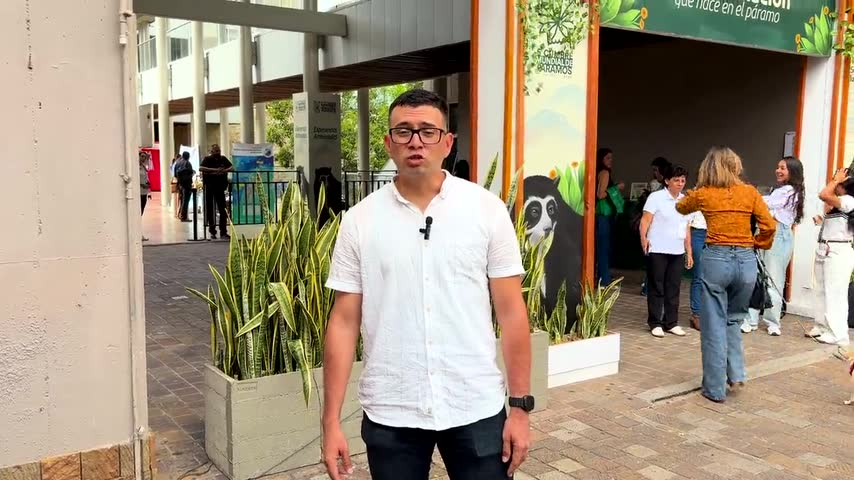
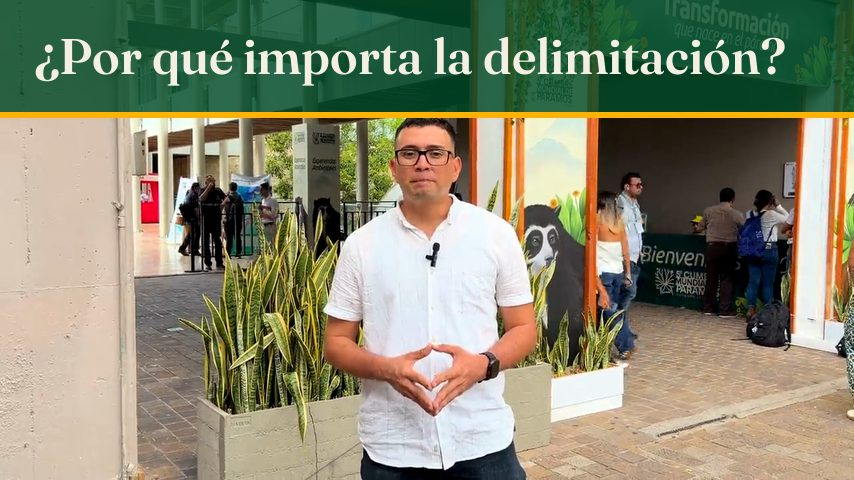
Portadas con título, explicación al acertar y pantalla de bienvenida
- Portada de cada video: fotograma con buena expresión (en una pausa o al terminar de hablar)
  y el título en Fraunces sobre una franja verde semitransparente.
- Al acertar, debajo de la pregunta aparece en verde la explicación de la respuesta.
- Pantalla de bienvenida antes del formulario con el título, la duración y el botón Empezar.

diff --git a/index.html b/index.html
@@ -204,6 +204,14 @@
     margin-bottom: 6px;
   }
 
+  .welcome-card .card-title{ font-size: 1.45rem; line-height: 1.25; margin-bottom: 12px; }
+  .welcome-datos{
+    margin: 0 0 22px;
+    font-size: 1.05rem;
+    line-height: 1.6;
+    color: var(--ink);
+  }
+
   .card-subtitle{
     color: var(--ink-soft);
     font-size: 1rem;
@@ -754,6 +762,7 @@
     margin: 16px 0 4px;
     font-size: 1rem;
     font-weight: 500;
+    line-height: 1.5;
   }
 
   .feedback.ok{ color: var(--correct); }
@@ -962,8 +971,15 @@
       </div>
     </section>
 
+    <!-- Bienvenida -->
+    <section class="card card-first welcome-card" id="welcomeCard">
+      <h2 class="card-title">Importancia de la incidencia en el Páramo de Santurbán</h2>
+      <p class="welcome-datos">Curso de unos 5 minutos · 7 videos cortos · 5 preguntas · Certificado al final</p>
+      <button class="next-btn" id="welcomeBtn">Empezar →</button>
+    </section>
+
     <!-- 1. Registro -->
-    <section class="card card-first" id="registerCard">
+    <section class="card card-first" id="registerCard" hidden>
       <h2 class="card-title">Antes de comenzar</h2>
       <p class="card-subtitle">Regístrate para participar en la capacitación. Tus datos se usarán para certificar tu participación.</p>
 
@@ -1155,6 +1171,7 @@
   const questions = [
     {
       text: "¿Cómo funciona el suelo del Páramo de Santurbán?",
+      explicacion: "Correcto. El suelo del páramo absorbe el agua de la lluvia y la neblina, y la va soltando poco a poco, incluso en temporadas secas.",
       options: [
         { text: "Como una roca que no deja pasar el agua", correct: false },
         { text: "Como una esponja que absorbe el agua y la suelta poco a poco", correct: true },
@@ -1164,6 +1181,7 @@
     },
     {
       text: "Según la ley colombiana, ¿qué actividades están prohibidas en los páramos?",
+      explicacion: "Correcto. En Colombia la minería y la ganadería están prohibidas en los páramos, aunque en municipios como Vetas y Suratá aún se realizan.",
       options: [
         { text: "Sembrar árboles nativos", correct: false },
         { text: "Hacer turismo ecológico", correct: false },
@@ -1173,6 +1191,7 @@
     },
     {
       text: "¿A qué ríos alimentan las quebradas de Bucaramanga?",
+      explicacion: "Correcto. Las quebradas de Bucaramanga alimentan el río de Oro y el Suratá, que juntos forman el río Lebrija.",
       options: [
         { text: "Al río de Oro y al Suratá", correct: true },
         { text: "Al Magdalena y al Cauca", correct: false },
@@ -1182,6 +1201,7 @@
     },
     {
       text: "Además del ambiente, ¿a quiénes beneficia proteger las quebradas?",
+      explicacion: "Correcto. Proteger las quebradas también beneficia a las familias que viven de la pesca aguas abajo.",
       options: [
         { text: "Solo a los turistas", correct: false },
         { text: "A las empresas de construcción", correct: false },
@@ -1191,6 +1211,7 @@
     },
     {
       text: "¿Por qué importa tanto la delimitación del páramo?",
+      explicacion: "Correcto. Lo que queda dentro de la delimitación tiene reglas de protección estrictas; lo que queda afuera puede quedar expuesto.",
       options: [
         { text: "Porque define dónde se puede construir más", correct: false },
         { text: "Porque lo que queda adentro tiene reglas de protección estrictas", correct: true },
@@ -1577,6 +1598,7 @@
   }
 
   // Screens
+  const welcomeCard = document.getElementById("welcomeCard");
   const resumeCard = document.getElementById("resumeCard");
   const registerCard = document.getElementById("registerCard");
   const introCard = document.getElementById("introCard");
@@ -1615,6 +1637,7 @@
 
   function showScreen(name){
     pantallaActual = name;
+    welcomeCard.hidden = name !== "welcome";
     resumeCard.hidden = name !== "resume";
     registerCard.hidden = name !== "register";
     introCard.hidden = name !== "intro";
@@ -1625,7 +1648,7 @@
     refreshVideos();
     actualizarBloqueo();
     ajustarUnidadDiploma(); // el diploma solo tiene ancho cuando su pantalla está visible
-    anunciarPantalla({ resume: resumeCard, register: registerCard, intro: introCard, quiz: quizCard, outro: outroCard, done: doneCard }[name]);
+    anunciarPantalla({ welcome: welcomeCard, resume: resumeCard, register: registerCard, intro: introCard, quiz: quizCard, outro: outroCard, done: doneCard }[name]);
     if (name === "done") precargarPdf();
     window.scrollTo({ top: 0, behavior: "smooth" });
 
@@ -1815,7 +1838,7 @@
     if (opt.correct){
       solved = true;
       btn.classList.add("correct");
-      feedback.textContent = "¡Correcto! Puedes continuar.";
+      feedback.textContent = questions[current].explicacion || "¡Correcto! Puedes continuar.";
       feedback.className = "feedback ok";
       nextBtn.disabled = false;
       [...optionsList.children].forEach(b => b.disabled = true);
@@ -2241,7 +2264,7 @@
         cerrar();
         confirmar.disabled = false;
         confirmar.textContent = "Sí, empezar de nuevo";
-        showScreen("register");
+        showScreen("welcome");
       }
     });
   }
@@ -2253,6 +2276,8 @@
   prepararOtraPersona("resumeOtherBtn", "resumeOtherPanel", () =>
     `Se borrará de este celular el avance de ${nombreAnterior()}. ` +
     "Si esa persona quiere terminar después, tendrá que empezar de nuevo.");
+
+  document.getElementById("welcomeBtn").addEventListener("click", () => showScreen("register"));
 
   const saved = loadProgress();
   if (saved && Array.isArray(saved.vistos)) vistos = new Set(saved.vistos); // videos ya vistos completos
@@ -2267,7 +2292,7 @@
     pendingResumeScreen = saved.screen;
     showScreen("resume");
   } else {
-    showScreen("register");
+    showScreen("welcome");
   }
 </script>
 
